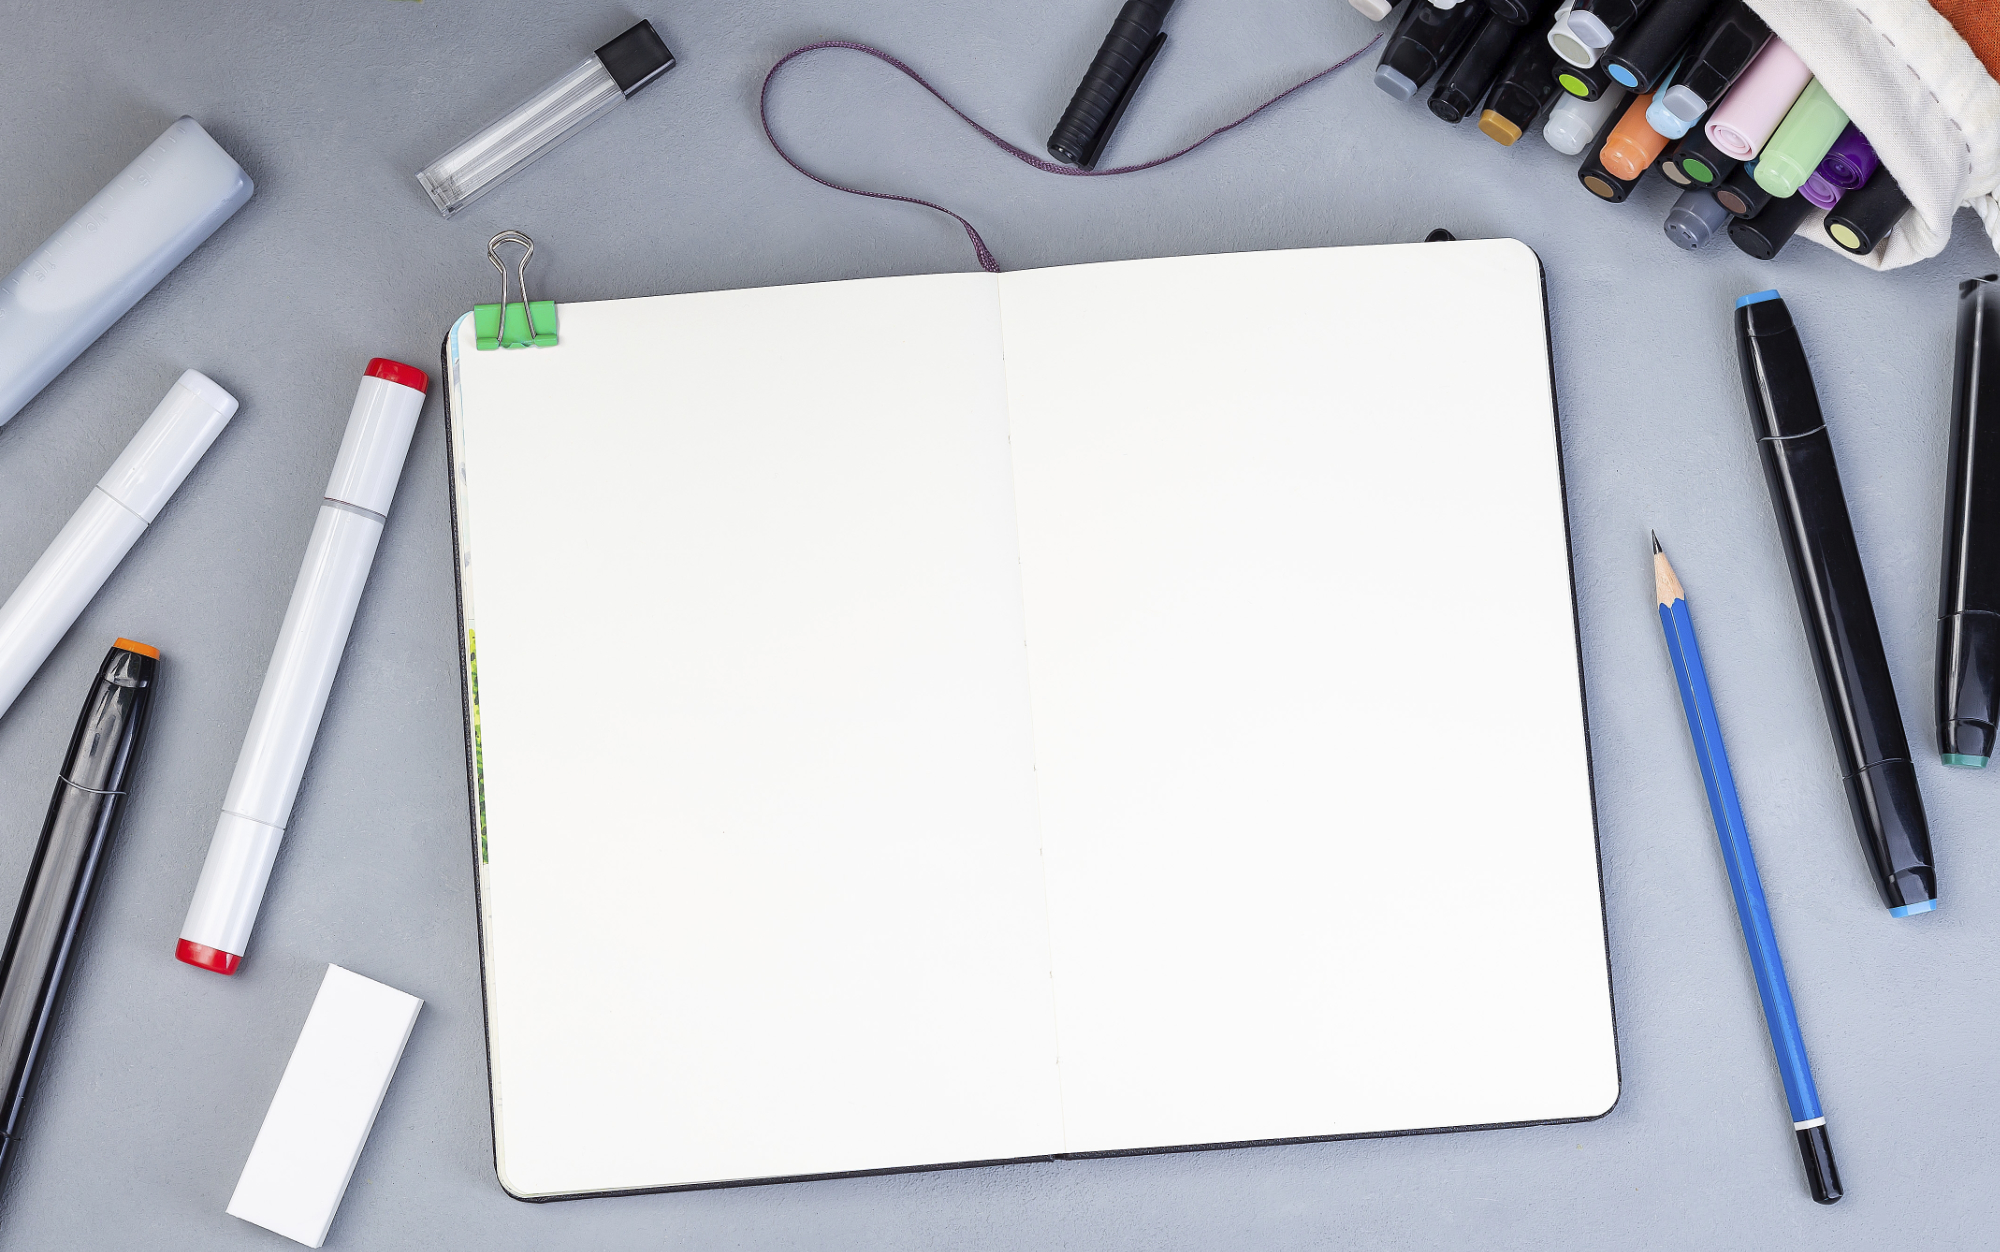
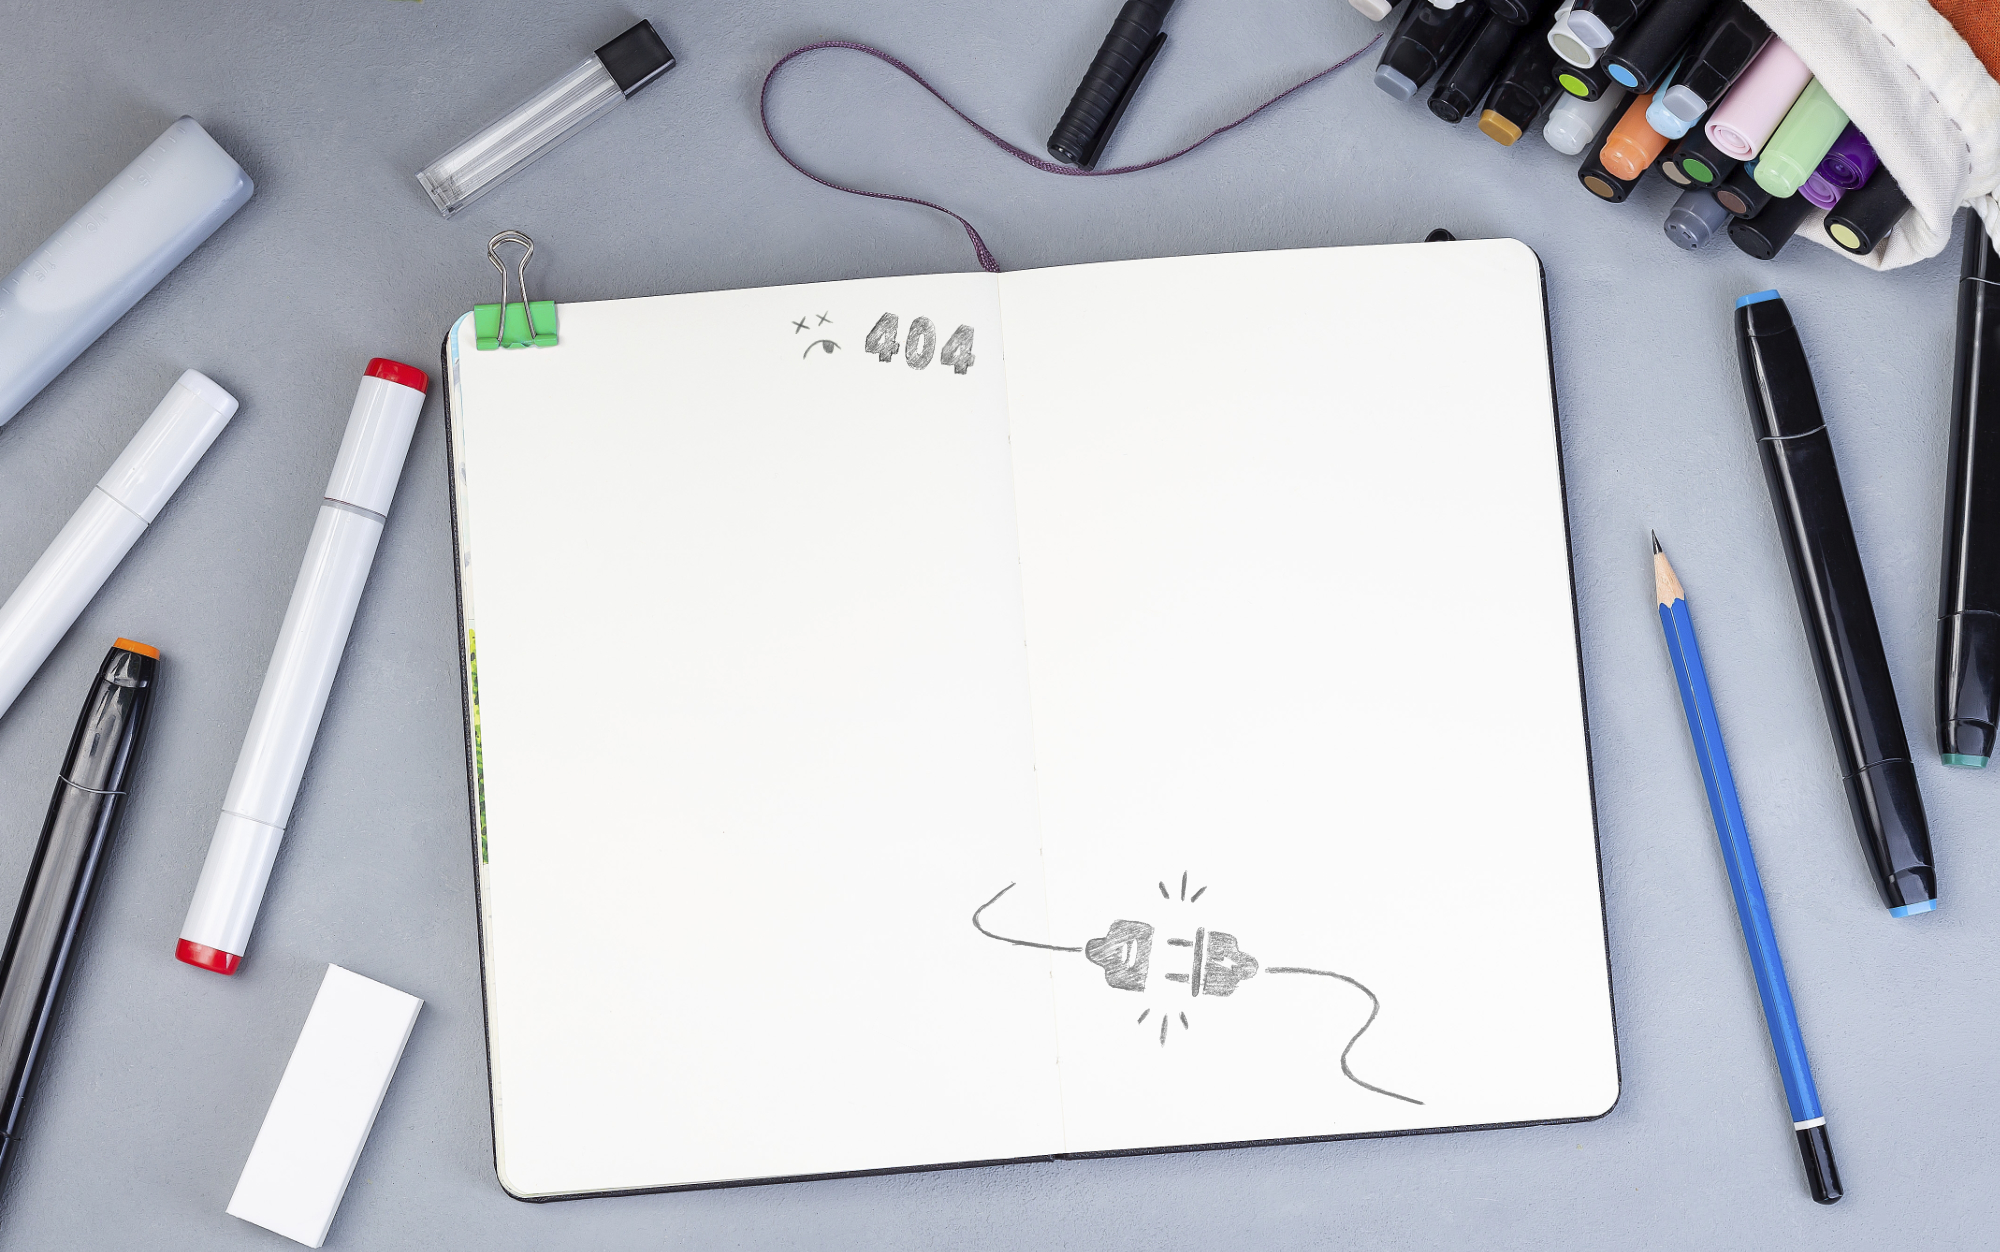
update 404.html and image

Changed region(s): [[0.496, 0.7165, 0.651, 0.8099], [0.961, 0.1558, 1.0, 0.2492], [0.403, 0.2492, 0.496, 0.3115]]

diff --git a/404.html b/404.html
@@ -88,7 +88,8 @@
         <img class="headimage" src="./resources/images/404_header.jpg" alt="Dan Beaumont Portrait">
         <div class="head_img_title">
             <h1 style="color: #1F3651;">Oops!</h1>
-            <p class="centerPara"><br>I can&apos;t find design!<br>I either haven't thought of it yet or it&apos;s been torn out... </p>
+            <h2>Page Not Found</h2>
+            <p class="centerPara">I either haven't designed of it yet or it&apos;s been torn out... </p>
         </div>
     </figure>
 
